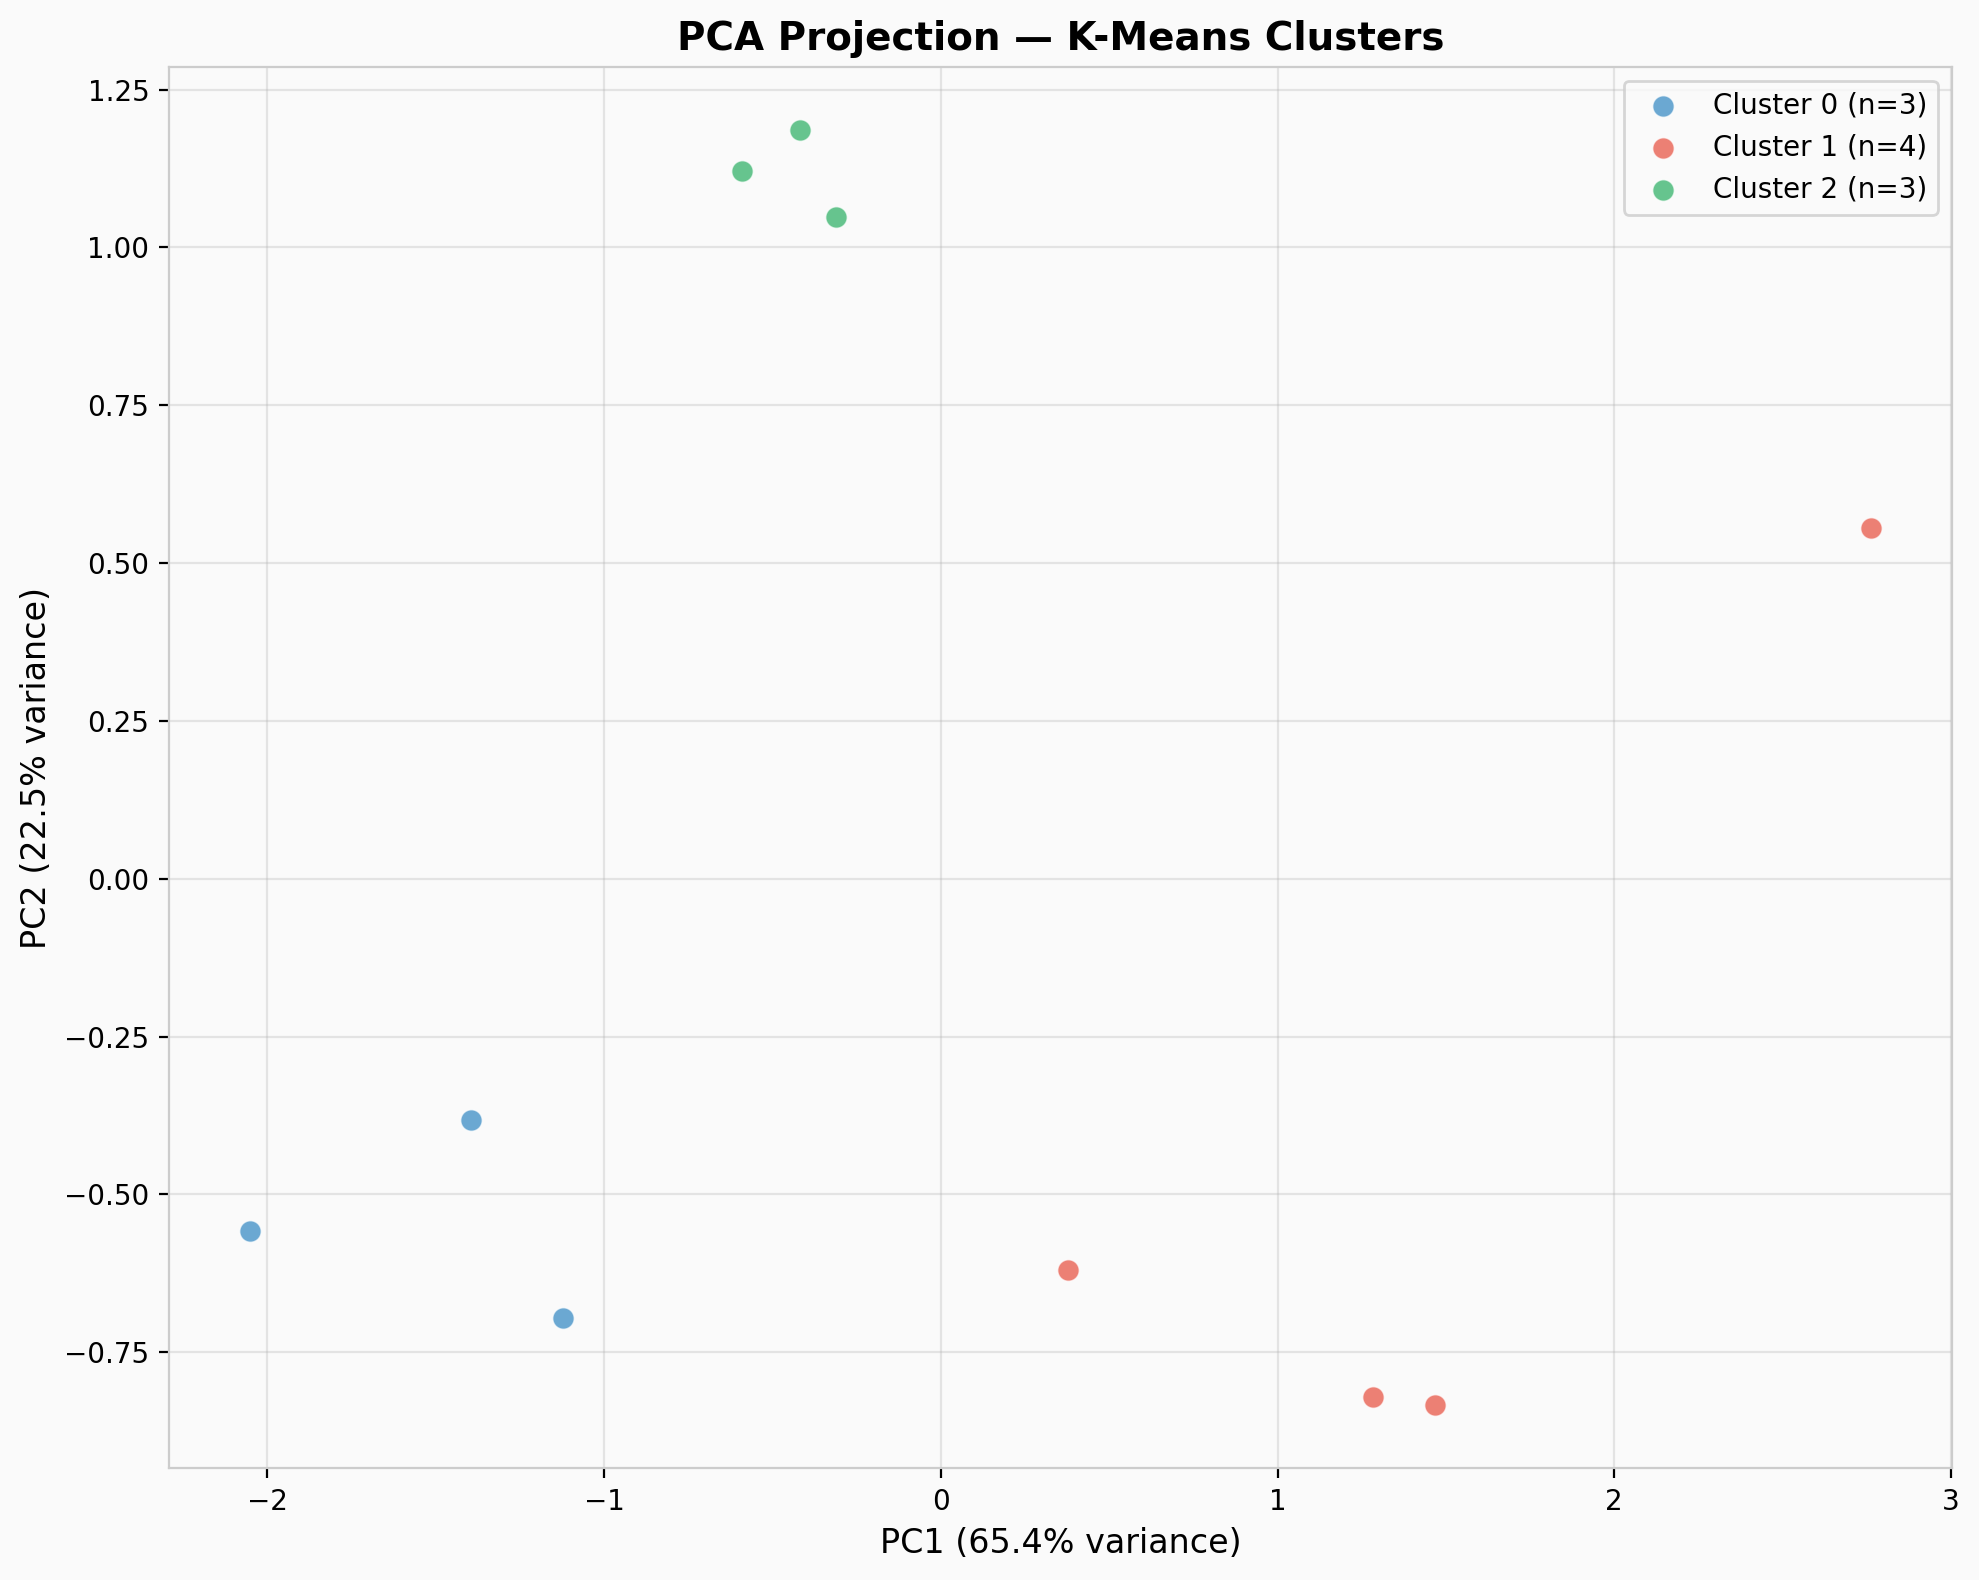
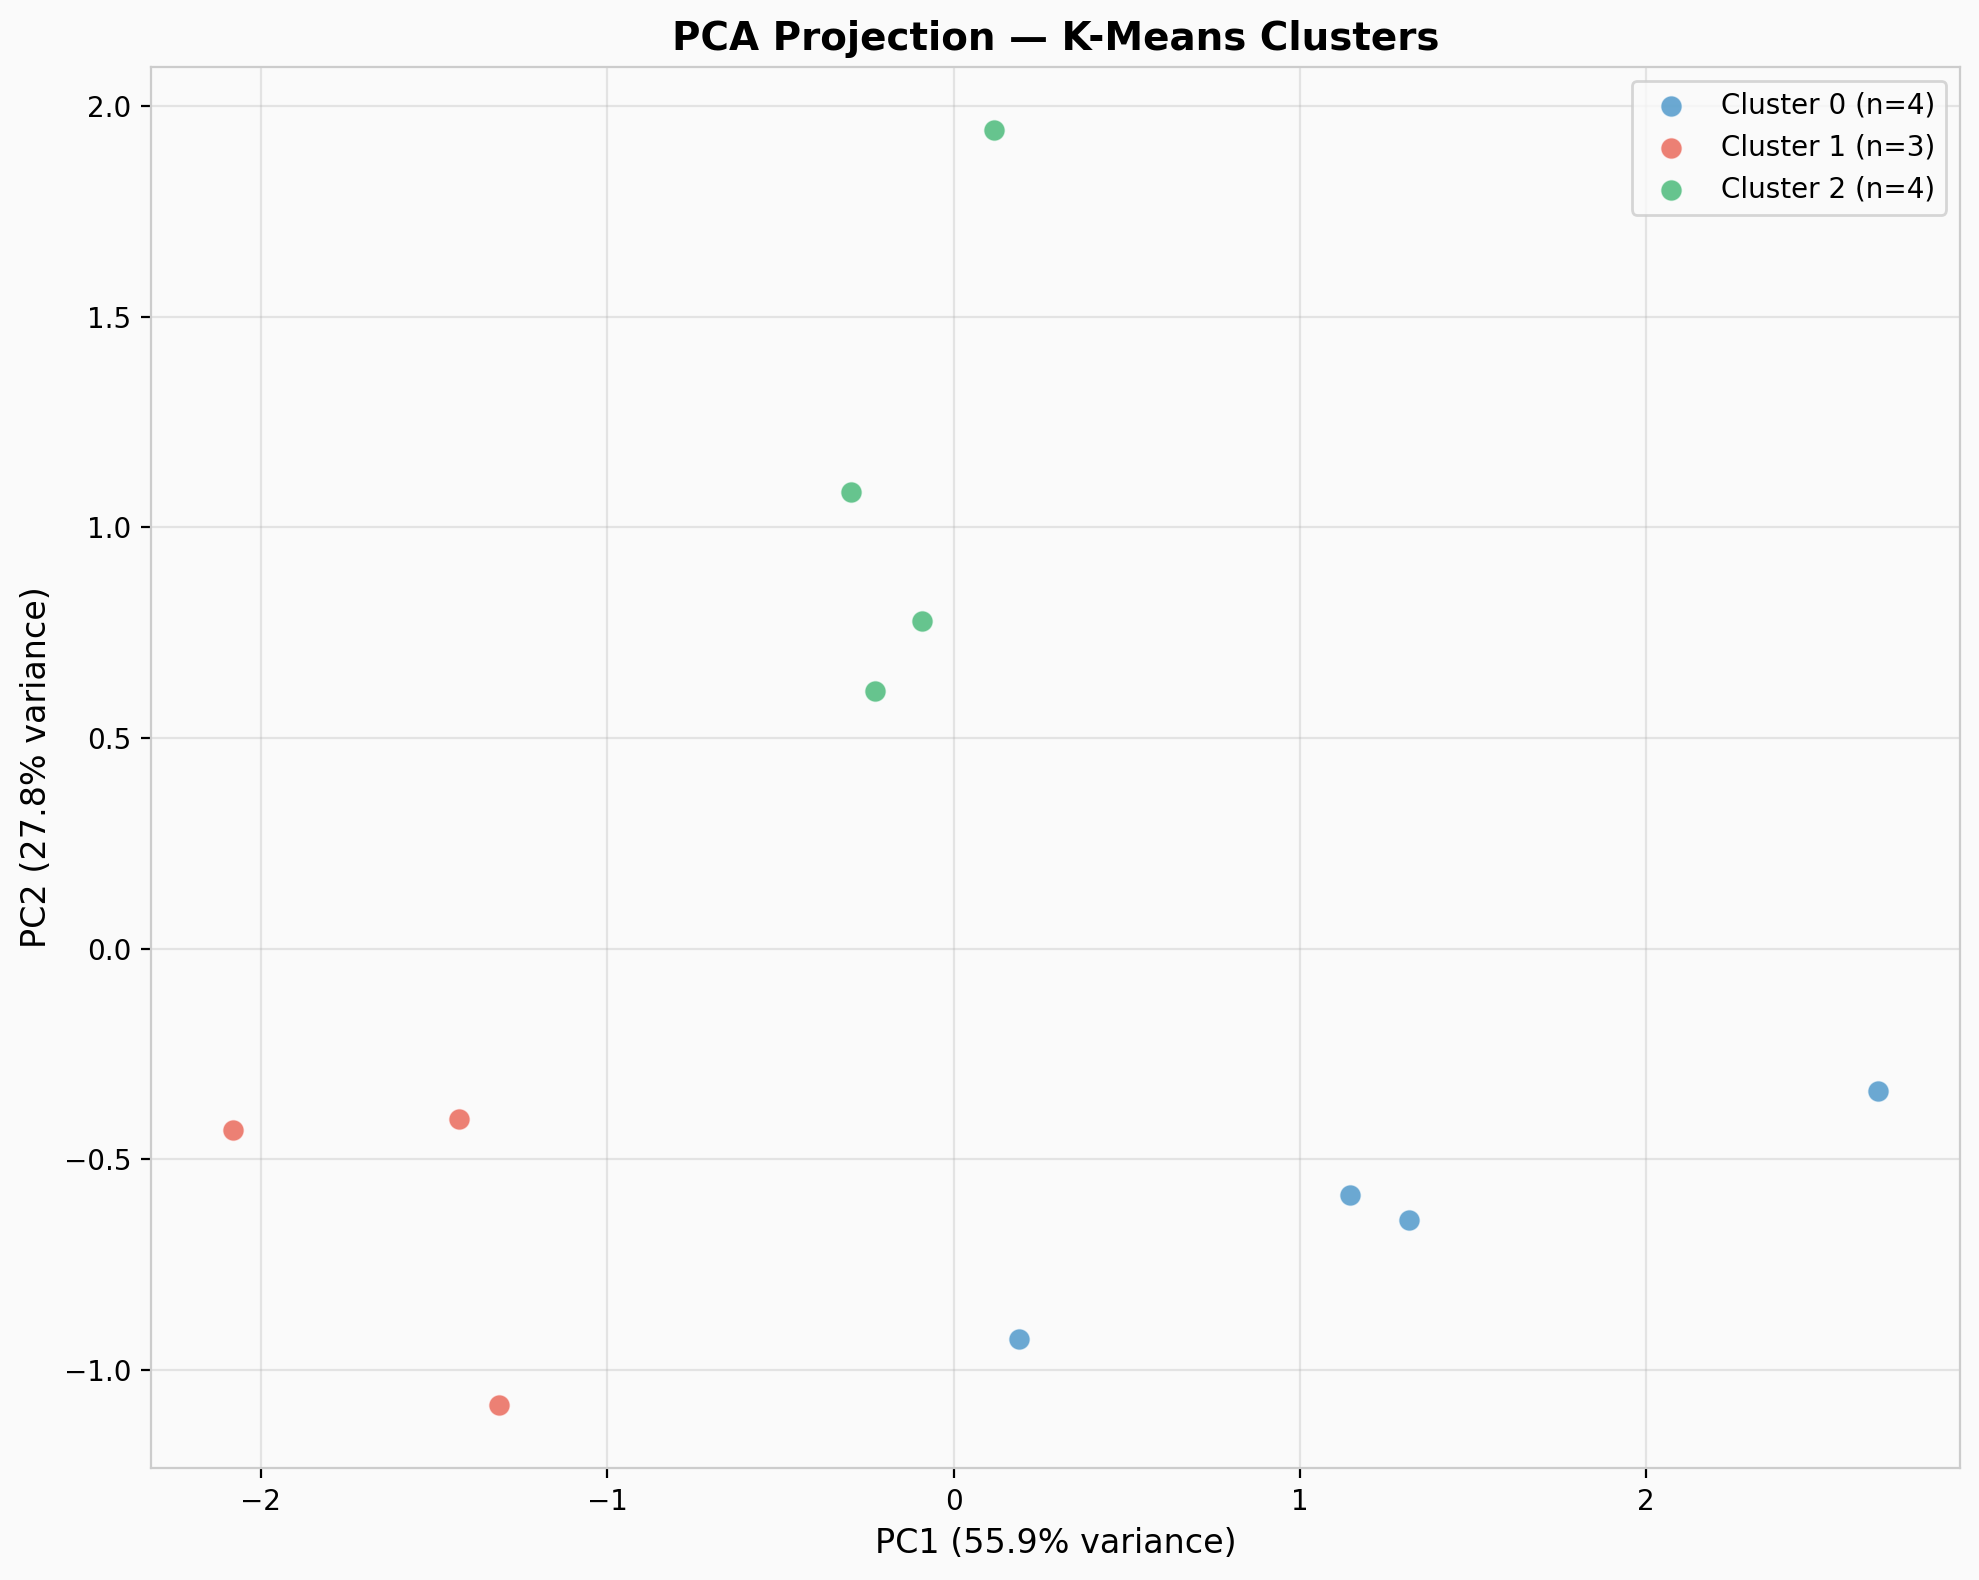
Update clustering results for N=11 (new participant added)
Silhouette 0.475→0.447, cluster sizes 3/4/3→4/3/4, updated
z-scores, PCA loadings, and all three clustering figures.

diff --git a/docs/bart_metrics_reference.tex b/docs/bart_metrics_reference.tex
@@ -1462,7 +1462,7 @@ Clustering uses three features: \texttt{dospert\_financial},
 
 Participants with prior task experience ($n = 5$) are excluded from
 clustering because familiarity with the BART paradigm substantially skews
-adaptive strategy and learning metrics. The analysis runs on $N = 10$.
+adaptive strategy and learning metrics. The analysis runs on $N = 11$.
 
 Feature selection was done by exhaustive search across all subsets,
 filtering for combinations that include \texttt{dospert\_financial} (since
@@ -1481,7 +1481,7 @@ singleton clusters.
 \texttt{bart\_impulsivity\_index}     & BART    & Composite timing + explosion + orange signal (Section~\ref{sec:impulsivity}) \\
 \bottomrule
 \end{tabular}
-\caption{Features used in clustering ($N = 10$, prior task excluded). Max pairwise $|r| = 0.449$.}
+\caption{Features used in clustering ($N = 11$, prior task excluded). Max pairwise $|r| = 0.495$.}
 \end{table}
 
 Two behaviorally independent BART dimensions (risk level vs.\@ risk style)
@@ -1535,15 +1535,15 @@ best_k = max(silhouettes, key=silhouettes.get)
 \centering
 \includegraphics[width=\textwidth]{figures/01_k_selection.png}
 \caption{Elbow plot (left) and silhouette scores (right) for $k = 2 \ldots 6$
-on the filtered sample ($N = 10$).}
+on the filtered sample ($N = 11$).}
 \label{fig:k_selection}
 \end{figure}
 
 
-\subsection{Results: $k = 3$, Silhouette $= 0.475$}
+\subsection{Results: $k = 3$, Silhouette $= 0.447$}
 
-After excluding prior-task participants, $k = 3$ gives silhouette $= 0.475$
-with cluster sizes 3/4/3.
+After excluding prior-task participants, $k = 3$ gives silhouette $= 0.447$
+with cluster sizes 4/3/4.
 
 \begin{lstlisting}[style=pythonstyle,caption={Profile computation (Python).}]
 km = KMeans(n_clusters=best_k, n_init=20, random_state=42)
@@ -1559,40 +1559,39 @@ z_centroids = (centroids - df[features].mean()) / df[features].std()
 \toprule
 \textbf{Cluster} & \textbf{Persona} & \texttt{dospert\_fin} & \texttt{rng\_pumps} & \texttt{impulsivity} \\
 \midrule
-C0 & Consistent Conservatives   & z $= -1.10$ & z $= -1.03$ & z $= +0.40$ \\
-C1 & Deliberate Risk-Takers     & z $= +0.38$ & z $= +0.97$ & z $= -1.02$ \\
-C2 & Impulsive Risk-Seekers     & z $= +0.60$ & $\approx 0$ & z $= +0.96$ \\
+C0 & Deliberate Risk-Takers     & z $= +0.35$ & z $= +0.88$ & z $= -1.06$ \\
+C1 & Consistent Conservatives   & z $= -1.20$ & z $= -1.12$ & z $= +0.18$ \\
+C2 & Impulsive Risk-Seekers     & z $= +0.55$ & $\approx 0$ & z $= +0.92$ \\
 \bottomrule
 \end{tabular}
-\caption{Z-scored cluster profiles at $k = 3$ ($N = 10$, silhouette $= 0.475$).}
+\caption{Z-scored cluster profiles at $k = 3$ ($N = 11$, silhouette $= 0.447$).}
 \end{table}
 
 \begin{figure}[H]
 \centering
 \includegraphics[width=\textwidth]{figures/02_cluster_profiles.png}
-\caption{Z-scored cluster centroids ($N = 10$, prior task excluded).}
+\caption{Z-scored cluster centroids ($N = 11$, prior task excluded).}
 \label{fig:profiles}
 \end{figure}
 
-\textbf{C0: Consistent Conservatives} ($n = 3$). Low self-reported
-financial risk tolerance and low behavioral risk on BART. The mild
-impulsivity uptick suggests that when they do pump, they are not
-particularly strategic about it. Conservative by conviction, not by
-calculation.
+\textbf{C0: Deliberate Risk-Takers} ($n = 4$). Push close to balloon
+limits (high normalized pumps) with the lowest impulsivity of any group:
+slow, consistent timing and controlled explosion rates. Their self-report
+is only moderately above average, suggesting they may not perceive their
+own behavior as particularly risky.
 
-\textbf{C1: Deliberate Risk-Takers} ($n = 4$). Push close to balloon
-limits (high normalized pumps) with low impulsivity: slow, consistent
-timing and controlled explosion rates. Their self-report is only
-moderately above average, suggesting they may not perceive their own
-behavior as particularly risky.
+\textbf{C1: Consistent Conservatives} ($n = 3$). Low self-reported
+financial risk tolerance and low behavioral risk on BART. The near-zero
+impulsivity z-score means their conservative approach is steady rather
+than erratic. Conservative by conviction, not by calculation.
 
-\textbf{C2: Impulsive Risk-Seekers} ($n = 3$). Report the highest
+\textbf{C2: Impulsive Risk-Seekers} ($n = 4$). Report the highest
 financial risk tolerance and act on it impulsively, with fast clicking and
 excess explosions. Their normalized pumps are near zero because they
 blow up before reaching their intended targets. They \emph{intend} to
 take risks but their approach is reactive, not strategic.
 
-The headline: C1 and C2 both report above-average financial risk appetite,
+The headline: C0 and C2 both report above-average financial risk appetite,
 but BART reveals fundamentally different strategies. Self-report alone
 cannot distinguish deliberate from impulsive risk-taking.
 
@@ -1602,16 +1601,18 @@ cannot distinguish deliberate from impulsive risk-taking.
 \begin{figure}[H]
 \centering
 \includegraphics[width=0.85\textwidth]{figures/03_pca_projection.png}
-\caption{PCA projection ($N = 10$). PC1 separates deliberate risk-takers
-(C1) from the rest along the behavioral axis. PC2 is almost entirely
-\texttt{dospert\_financial} (loading $= 0.821$).}
+\caption{PCA projection ($N = 11$). PC1 separates deliberate risk-takers
+(C0) from the rest along the behavioral-plus-self-report axis. PC2 is
+dominated by \texttt{impulsivity\_index} (loading $= 0.862$).}
 \label{fig:pca}
 \end{figure}
 
-PC1 ($\sim$50\%) separates C1 from the rest along the
-\texttt{rng\_normalized\_pumps} vs.\@ \texttt{impulsivity\_index} axis.
-PC2 ($\sim$37\%) is dominated by \texttt{dospert\_financial} (loading $= 0.821$),
-meaning the self-report and behavioral dimensions are close to orthogonal.
+PC1 ($\sim$56\%) loads positively on both \texttt{rng\_normalized\_pumps}
+($0.650$) and \texttt{dospert\_financial} ($0.604$), and negatively on
+\texttt{impulsivity\_index} ($-0.462$), separating C0 (deliberate
+risk-takers) from the rest. PC2 ($\sim$28\%) is dominated by
+\texttt{impulsivity\_index} (loading $= 0.862$), pulling C2 (impulsive
+risk-seekers) upward and C1 (conservatives) downward.
 People who \emph{say} they take financial risks and people who
 \emph{actually} take them on BART are not necessarily the same, which
 is the core convergent validity finding.
